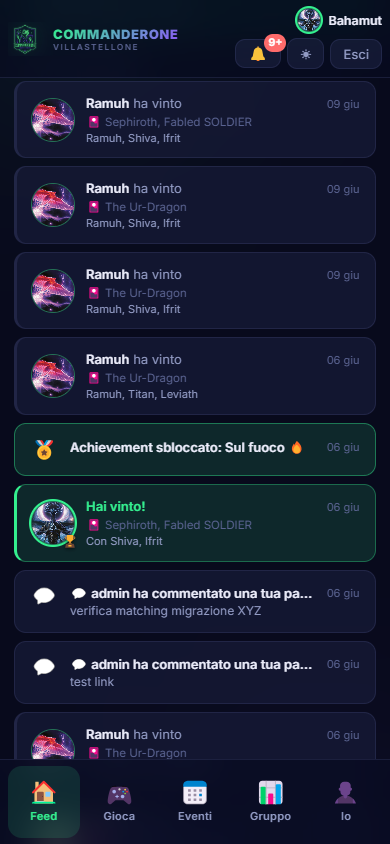
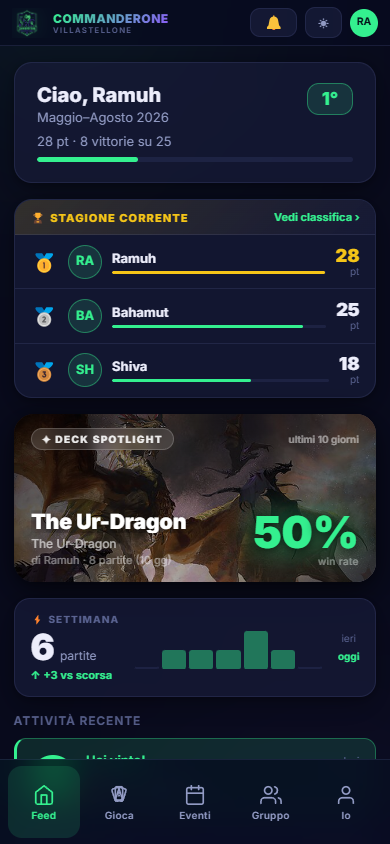
docs(guide): update Feed section with MiniClassifica, DeckSpotlight, WeeklyActivity

diff --git a/GUIDA_UTENTE.md b/GUIDA_UTENTE.md
@@ -67,12 +67,18 @@ Su **desktop** c'è la barra in alto con le voci: Feed · Gioca · Eventi · Gru
 
 ## 3. Feed — la home
 
-![Feed](docs/img/mobile-feed.png)
+![Feed — benvenuto e classifica](docs/img/mobile-feed.png)
 
 Il Feed è la prima schermata dopo il login. Mostra tutto quello che conta in un colpo d'occhio:
 
 - **Card di benvenuto** — "Ciao, [nome]" con la stagione in corso, il tuo rank e win rate attuali. Se sei in streak compare anche quella.
 - **Prossimo evento** — banner verde con nome, data e numero di iscritti. Toccalo per aprire il dettaglio dell'evento.
+- **Stagione corrente** — mini-classifica con i top 3 qualificati e i rispettivi punti. Tocca **Vedi classifica** per aprire la tab Stagione in Gruppo.
+- **Deck Spotlight** — il mazzo più in forma degli ultimi 10 giorni (almeno 3 partite), con win rate e nome del proprietario. Toccalo per aprire il profilo del mazzo.
+- **Settimana** — partite giocate questa settimana con il confronto rispetto alla scorsa e un grafico a barre giorno per giorno.
+
+![Feed — Deck Spotlight e attività](docs/img/mobile-feed-cards.png)
+
 - **Attività recente** — le ultime partite del gruppo in ordine cronologico, con vincitore e partecipanti. Le notifiche non lette compaiono qui con un bordo colorato.
 
 ---